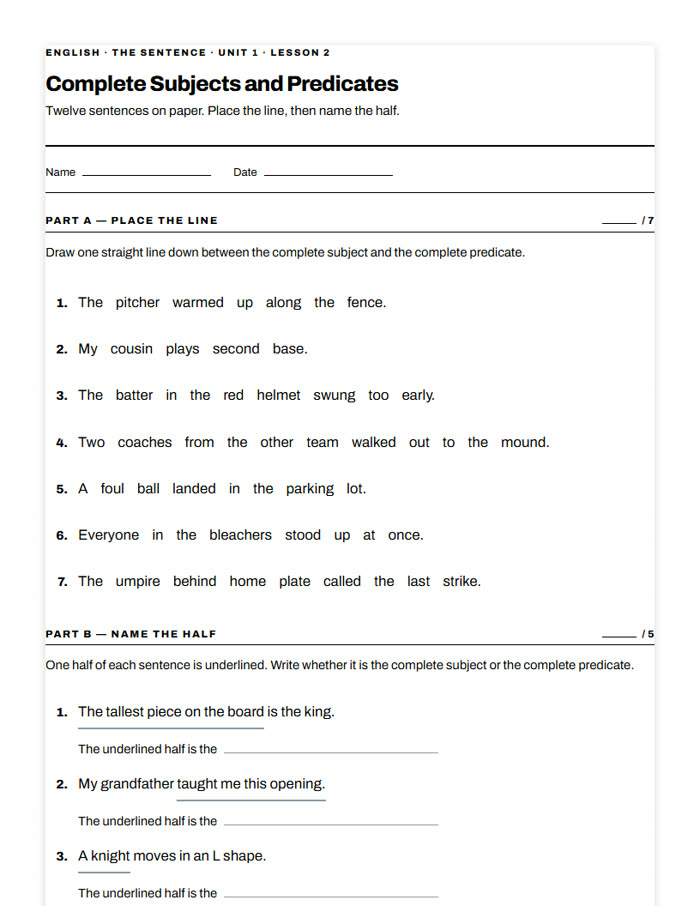
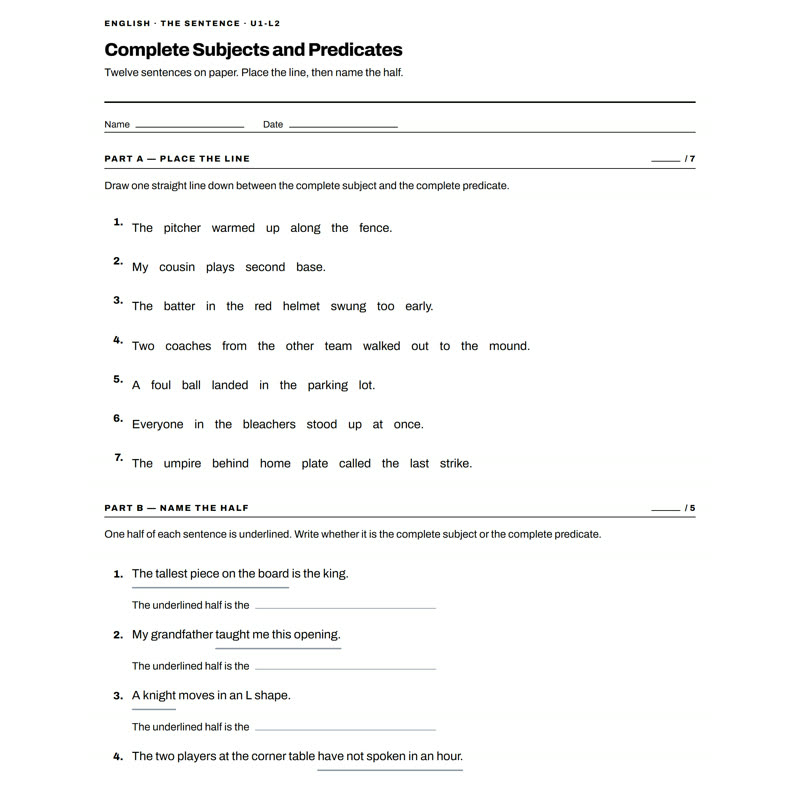
Worksheet covers: page one, whole, inside a square
Paul, 2026-09-17: "you should make these sheets fit inside of a square on the
site. you have the bottom cut off", and then "you already did it with the
multiplication one."

🔑 THAT WAS THE CLUE. multiplication-drill-100 looks right because it is
kind:"pdf" — its cover comes from a real paginated page. The HTML sheets were
screenshotting the /print/ WEB page, which carries the nav, the Print/Download
bar, a dark body and a footer, and is far longer than one sheet. make-cover then
cut a fixed 816x1056 box out of that and hoped. It missed, so every cover ended
mid-sentence with a dark strip down one side.

Now:
 · Emulation.setEmulatedMedia {media:"print"} — render as the PRINTER sees it
 · a style injected to show .sheet and hide its siblings, because a dark strip
   still came through at the top: chrome that @media print does not catch here.
   A cover is the sheet and nothing else.
 · capture at 816 wide, deviceScaleFactor 2, then crop page one off the top —
   no guessed offsets, print media puts the sheet at the origin
 · a white margin padded on, since @page margins exist only in real pagination
   and never appear in a screenshot
 · fit to 800x800 without distorting, pad the rest white, so every shelf card
   is the same square

⛔ An earlier attempt padded the BAD crop to a square and was reverted: a square
wrong crop is still a wrong crop.

Four English covers regenerated.

diff --git a/tools/make-cover.js b/tools/make-cover.js
@@ -187,6 +187,36 @@ async function capture(url) {
   /* Give webfonts and the stylesheet time to land; a cover of unstyled text is
      worse than no cover, and there is no error to tell us apart. */
   await sleep(3500);
+  /* 🚨 RENDER AS THE PRINTER SEES IT. The /print/ page carries the site nav,
+     the Print/Download bar, a dark body and a footer - all hidden by
+     @media print and none of which belong on a cover. Screenshotting the WEB
+     page is why every cover was cropped wrong and ended mid-sentence:
+     make-cover was cutting a fixed box out of a layout it could not predict.
+     Paul, 2026-09-17: "you should make these sheets fit inside of a square on
+     the site. you have the bottom cut off." */
+  await send("Emulation.setEmulatedMedia", { media: "print" });
+  /* 🚨 AND HIDE WHATEVER PRINT CSS MISSES. A dark strip still came through at
+     the top of the first cover - site chrome that @media print does not catch
+     in this context. A cover must be the SHEET and nothing else, so rather
+     than chase each stray element, show .sheet and hide its siblings. */
+  await send("Runtime.evaluate", { expression: "(function(){" +
+    "var st=document.createElement('style');" +
+    "st.textContent='body>*:not(.sheet){display:none!important}'+" +
+    "'html,body{background:#fff!important;margin:0!important;padding:0!important}'+" +
+    "'.sheet{margin:0!important;box-shadow:none!important;border:0!important}';" +
+    "document.head.appendChild(st);" +
+    "var s=document.querySelector('.sheet');" +
+    "if(s&&s.parentElement&&s.parentElement!==document.body){" +
+      "document.body.appendChild(s);" +
+    "}" +
+  "})()" });
+  await sleep(1200);
+  /* One Letter page is 816x1056 at 96dpi. Capture at that WIDTH and let the
+     height run; the crop below takes the first page off the top. */
+  const met = await send("Page.getLayoutMetrics");
+  const full = Math.min(Math.ceil((met.cssContentSize && met.cssContentSize.height) || PAGE_H), 16000);
+  await send("Emulation.setDeviceMetricsOverride", { width: PAGE_W, height: full, deviceScaleFactor: 2, mobile: false });
+  await sleep(500);
   const shotRes = await send("Page.captureScreenshot", { format: "png", captureBeyondViewport: true });
   try { sock.close(); } catch (e) {}
   try { proc.kill(); } catch (e) {}
@@ -201,7 +231,19 @@ server.listen(0, "127.0.0.1", () => {
     if (!fs.existsSync(shot)) { console.error("Chrome wrote no screenshot."); process.exit(1); }
     execFile("ffmpeg", [
       "-y", "-loglevel", "error", "-i", shot,
-      "-vf", `crop=${PAGE_W}:${PAGE_H}:${OFF_X}:${OFF_Y},scale=700:-2`,
+      /* 🚨 PAGE ONE, WHOLE, IN A SQUARE.
+         · crop  the first page off the top. At deviceScaleFactor 2 every
+           dimension is doubled, hence the x2. No x/y offset is guessed any
+           more - print media puts the sheet at the origin.
+         · pad   a white margin around it, because @page margins exist only in
+           real pagination and never appear in a screenshot. Without this the
+           text runs to the very edge and the cover looks trimmed.
+         · scale to FIT 800x800 without distorting, then pad the remainder
+           white so every card on the shelf is the same square. */
+      "-vf", `crop=${PAGE_W * 2}:${PAGE_H * 2}:0:0,` +
+             `pad=${PAGE_W * 2 + 96}:${PAGE_H * 2 + 96}:48:48:white,` +
+             `scale=800:800:force_original_aspect_ratio=decrease,` +
+             `pad=800:800:(ow-iw)/2:(oh-ih)/2:white`,
       "-q:v", "4", out,
     ], (err2) => {
       fs.unlinkSync(shot);
